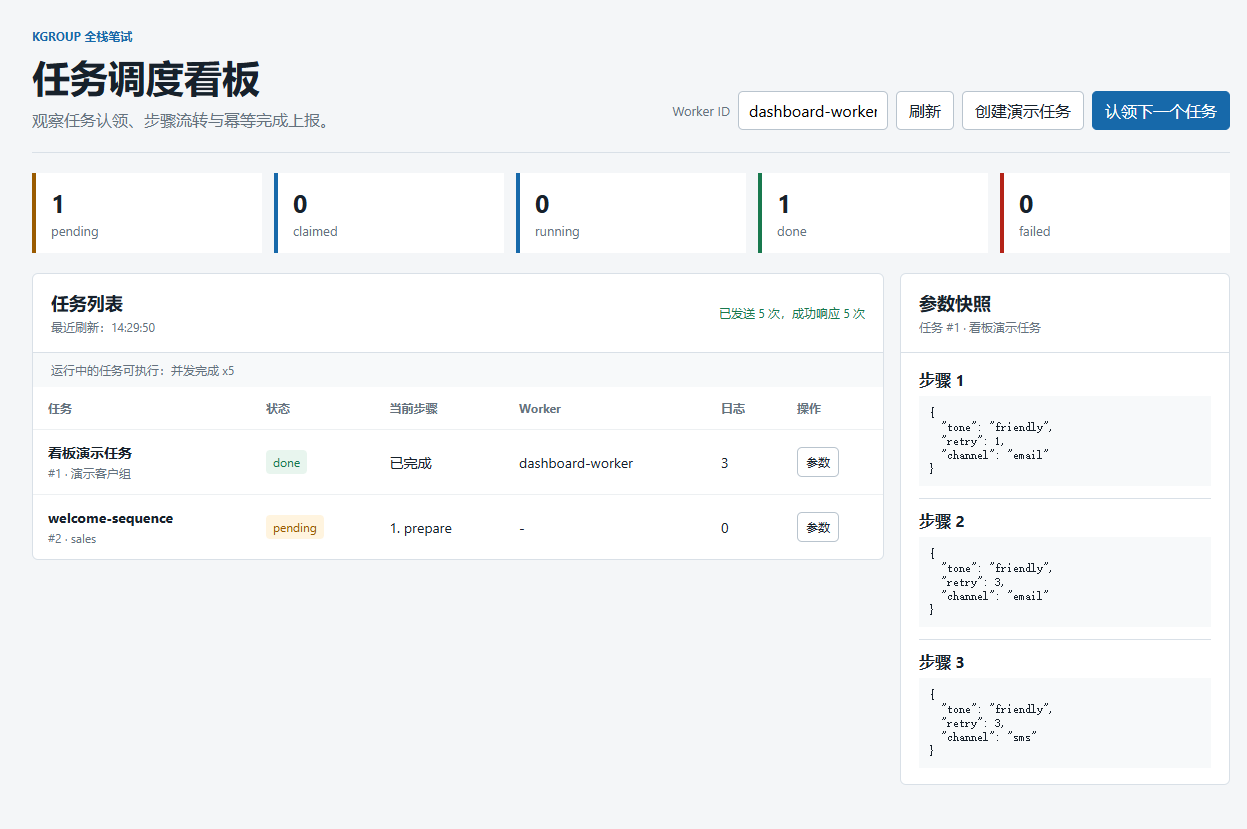
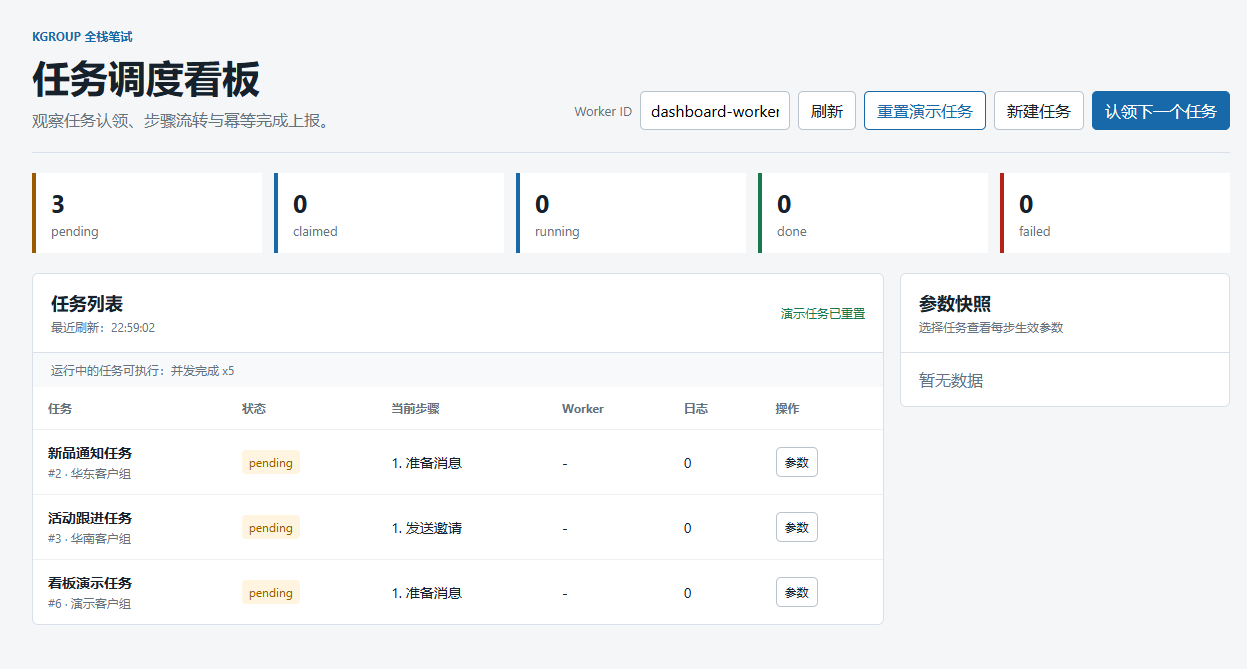
测试：记录新建任务与演示重置验收

diff --git a/app/static/app.js b/app/static/app.js
@@ -37,7 +37,7 @@ function actionButtons(task) {
 function renderTasks() {
   const body = $("#task-table-body");
   if (!state.tasks.length) {
-    body.innerHTML = '<tr><td colspan="6" class="empty-state">暂无任务，请创建演示任务。</td></tr>';
+    body.innerHTML = '<tr><td colspan="6" class="empty-state">暂无任务，请新建任务或重置演示任务。</td></tr>';
     return;
   }
   body.innerHTML = state.tasks.map((task) => {

diff --git a/tests/integration/test_task_creation_ui.py b/tests/integration/test_task_creation_ui.py
@@ -30,3 +30,4 @@ def test_task_creation_script_contains_validation_and_create_flow(client: TestCl
     assert "add-step-button" in script.text
     assert "task-dialog" in script.text
     assert "reset-demo-button" in script.text
+    assert "请新建任务或重置演示任务" in script.text

diff --git a/docs/test-evidence.md b/docs/test-evidence.md
@@ -14,7 +14,7 @@
 
 ```text
 Ruff：通过
-Python 全量测试：27 passed
+Python 全量测试：30 passed
 Python 编译检查：通过
 JavaScript 语法检查：通过
 FastAPI 根页面访问：HTTP 200
@@ -23,7 +23,7 @@ FastAPI 根页面访问：HTTP 200
 完整 `pytest -v` 实际结果：
 
 ```text
-27 passed
+30 passed
 ```
 
 集成测试使用本地 MySQL 8.0.31 的 `task_scheduler_test` 数据库，包含真实多进程认领和并发幂等上报。
@@ -53,12 +53,14 @@ FastAPI 根页面访问：HTTP 200
 2026-09-02 使用真实浏览器执行以下操作：
 
 1. 打开任务调度看板。
-2. 创建或复用演示任务。
-3. 使用 `dashboard-worker` 认领任务。
-4. 启动任务。
-5. 对三个步骤分别点击一次 `并发完成 x5`。
-6. 查看三级参数快照和最终任务状态。
+2. 打开“新建任务”弹窗，添加第三个步骤。
+3. 创建第一个自定义任务，再创建第二个不同任务。
+4. 输入非法 JSON，确认页面阻止提交并保留弹窗。
+5. 使用 `dashboard-worker` 认领演示任务并启动。
+6. 对三个步骤分别点击一次 `并发完成 x5`。
+7. 点击“重置演示任务”，确认演示任务重新变成 `pending`。
+8. 查看三级参数快照和最终任务状态。
 
-实际结果：每轮五个完成请求均返回成功，任务每轮只推进一个步骤，日志数依次为 1、2、3；最终任务状态为 `done`，浏览器控制台无脚本错误。
+实际结果：两个自定义任务同时出现在列表；非法 JSON 没有产生请求；每轮五个完成请求均返回成功，任务每轮只推进一个步骤，日志数依次为 1、2、3；重置后演示任务得到新的 ID、状态为 `pending` 且日志数为 0；浏览器控制台无脚本错误。
 
 最终页面截图：`docs/dashboard-final.png`。

diff --git a/README.md b/README.md
@@ -26,7 +26,9 @@ Copy-Item .env.example .env
 .\.venv\Scripts\uvicorn app.main:app --reload --host 127.0.0.1 --port 8000
 ```
 
-打开 `http://127.0.0.1:8000`。页面提供创建演示任务、认领、启动、查看参数和五次并发完成上报。
+打开 `http://127.0.0.1:8000`。页面提供新建任务、重置演示任务、认领、启动、查看参数和五次并发完成上报。
+
+点击“新建任务”可以填写任务组、任务名称、L1 基础参数、L2 组级覆盖和多个 L3 步骤参数。点击“重置演示任务”会删除旧演示任务并重新创建一条 `pending` 任务，不会删除其他自定义任务。
 
 ## 测试
 
